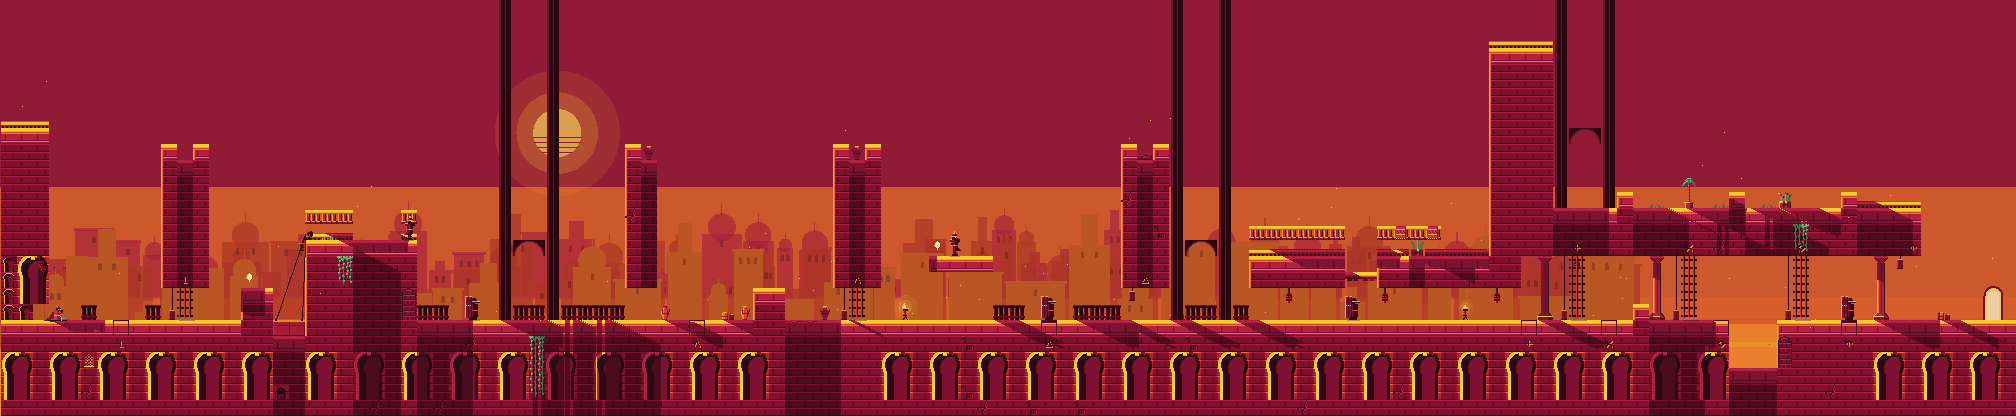
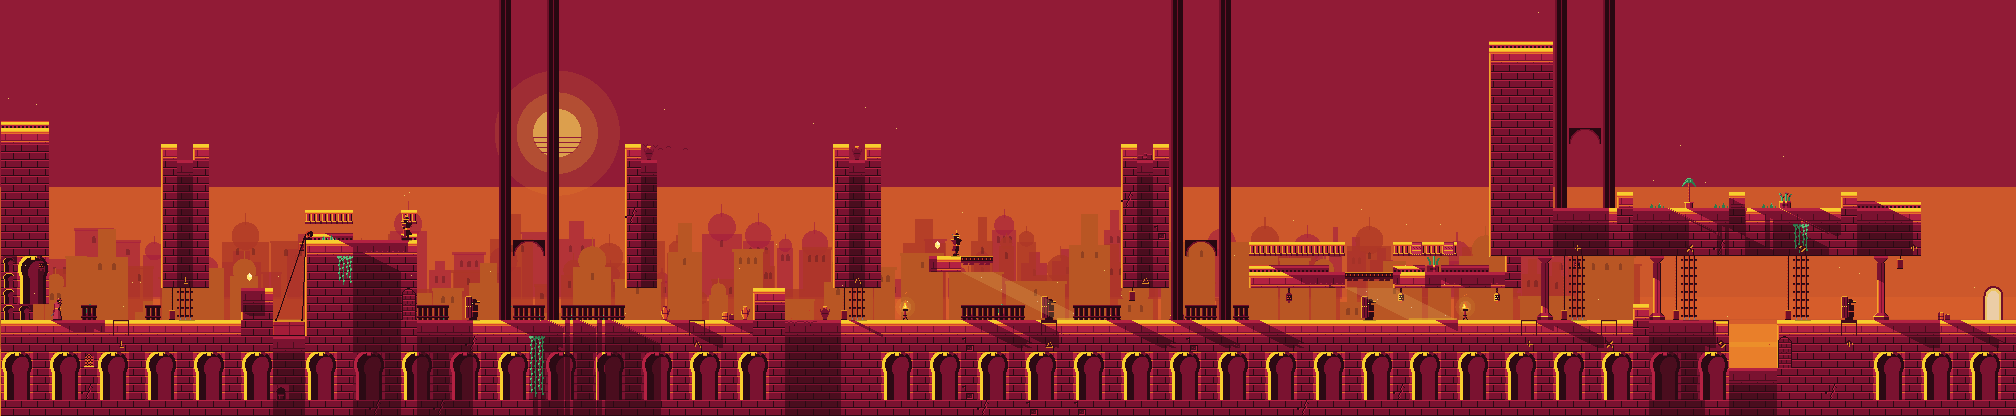
Make the corridor's hatch an iron grate the sun falls through, plunged with down + SWORD
Played on a phone, Chapter II's corridor was a dead end that looked like a
bug. The hatch was a notch in a two-course roof with a one-way floor at its
foot, so it read as a gap in the stone the prince sank into; the way
through it was a drop and then a plunge inside a two-tile fall, which
nobody found; and from inside the tunnel the shield had no answer and
nothing pointed at the one there was.

- A hatch is now its own thing (`h`, scripts/mechanisms/hatch.gd): an iron
  grate set flush in a floor, a one-way floor in the grid so it collides
  and proves exactly as `=` does, drawn as ink bars under a sunlit frame.
  Sunlight falls through it down the sun's own lane -- two across for one
  down, the slope every shadow runs on -- to the first stone below.
- Down + SWORD on any one-way floor is the plunge through it
  (Player._plunge_through()): one press, everywhere. Down + JUMP is still
  the drop; on stone, or half on it, down + SWORD is still the swing.
- The corridor's roof is one course with a grate three wide in it, the
  Bastion under its middle, where the shaft crosses his helm: from inside
  the light points up at the way, from the roof down at him. At two wide
  the rebound off his helm caught the stone rim in a ledge grab and hung
  the prince in the hatch between the two plunges; at three nothing stone
  is in reach. The climb onto the roof is three courses.
- The balcony's east half is the same grate, over the street everyone
[…]

diff --git a/docs/campaign.md b/docs/campaign.md
@@ -299,7 +299,7 @@ hanging beside every gate is its clock.
 | --- | --- | --- |
 | introduce | the courtyard (x 29) | posted under the rampart's lip, where jumping off puts you above him; a shove here only puts you against a wall |
 | develop | the weighed gate (x 65) | leap him, or plunge him and race |
-| twist | the corridor (x 84) | two tiles high: no leap, no height to plunge from — so go up onto the roof and drop through the hatch onto him |
+| twist | the corridor (x 85) | two tiles high: no leap, no height to plunge from — the sun falls through an iron grate in the roof onto his helm, so go up onto the roof and plunge through the grate (down + SWORD) onto him |
 | master | the arcade's last bay (x 115) | a Bastion in the middle of a race |
 
 **Beat sheet** (12 beats; the draft's header has them in full):
@@ -312,7 +312,7 @@ hanging beside every gate is its clock.
 6. Torch 1.
 7. The balcony — optional: a grab onto one course of stone over the street, a sentinel on four tiles of it, R2.
 8. The weighed gate. *(counterweights: twist; Bastion: develop)*
-9. The corridor and its hatch. *(Bastion: twist)*
+9. The corridor and its grate. *(Bastion: twist)*
 10. Torch 2.
 11. **The Long Arcade.** *(master; set piece)*
 12. The plaza and the door.
@@ -359,6 +359,40 @@ it showed a flaw:
 - **The corridor's roof runs on to the arcade's wall.** As drafted it stopped
   two tiles short, and a prince could walk the roof and drop down past the
   Bastion; now the hatch is the way down.
+- **The corridor's hatch is an iron grate the sun falls through** -- after
+  the owner played it on a phone and called it "a weird situation". As
+  drafted it was a notch in a two-course roof with a one-way floor at its
+  foot: it read as a glitch, a gap in the stone the prince sank into; the
+  way through it was a drop and then a plunge inside a two-tile fall,
+  which nobody found; and from inside the tunnel the shield had no answer
+  and nothing pointed at the one there was. Now:
+  - the roof is one course, with the grate (`h`, `scripts/mechanisms/
+    hatch.gd`) set flush in it, three wide, walked on like the stone either
+    side;
+  - **down + SWORD on any one-way floor plunges through it**
+    (`Player._plunge_through()`), one press, everywhere; down + JUMP is still
+    the plain drop, and on stone down + SWORD is still the swing;
+  - sunlight falls through the grate down the sun's own lane, two across for
+    one down -- every shadow in the game runs on it, so the shaft is drawn
+    at it, not straight down -- and the Bastion stands under the grate's
+    middle, where the shaft crosses his helm: from inside the tunnel the
+    light points up at the way, from the roof down at him;
+  - three wide with him under the middle, no stone rim is in reach of a
+    prince bouncing off his helm: at two wide the rebound's fall caught the
+    rim in a ledge grab and hung him in the hatch, between the two plunges;
+  - the climb onto the roof is three courses, a grab; and the grate is shown
+    first, safely, in the balcony's east half, which everyone walks under
+    and sees the sun come through before the corridor needs it;
+  - his turn already comes when a prince ends up behind him, so a roll past
+    his shield to his open back is an answer from inside the moment the
+    adventure has one.
+
+  The rest of the chapter was checked for the same failure -- a solution
+  the chapter never taught or showed -- and holds: the plate and gate are
+  taught by gate 1, the lift by its chains and slab, the plunge on the
+  courtyard Bastion by the drop off the rampart's lip above him (and the
+  Sun Terrace before it), the weighed gate's leap and the arcade's kerb and
+  pit are the jump, and the secrets are optional by construction.
 - **The second bay's hold is 1.7 s, not 1.6.** The kerb's hop is an arc the
   proof charges frame by frame: 1.21 s of run, 76% of 1.6 — past the 25%
   slack every race must keep. At 1.7 it is 71%, and the gate still falls

diff --git a/docs/character.md b/docs/character.md
@@ -117,8 +117,8 @@ and `tests/unit/test_specials.gd` pins each risk and reward against
 
 | | **Plunge** | **Parry** |
 | --- | --- | --- |
-| Touch | stick **down** + **SWORD**, in a jump or a fall | stick **up** + **SWORD**, on the ground |
-| Keyboard / pad | down + sword in the air | up + sword |
+| Touch | stick **down** + **SWORD**, in a jump or a fall -- or standing on a one-way floor, which it plunges through (`Player._plunge_through()`) | stick **up** + **SWORD**, on the ground |
+| Keyboard / pad | down + sword in the air, or on a one-way floor | up + sword |
 | What it does | gives up the run (`velocity.x` 0), drops at `MAX_FALL_SPEED` with the point `PLUNGE_REACH` (8 px) under the feet; no steering, no ledge | plants the feet and raises the blade for `PARRY_TIME` (24 frames); it turns a cut only in the first `PARRY_ACTIVE` (12) and only from the front |
 | Reward | a heart from where the guard cannot answer: his cut stops at `CUT_HIGH` (18 px), below the top of his own helm, so a body coming down on him is out of it; then it springs back off him (`STOMP_BOUNCE`, as a stomp does) into a jump that can plunge again | no wound to the guard, but his sabre is thrown wide and he reels where he stands for `PARRIED_TIME` (54 frames) — longer than the 33 of a whiffed cut, with the prince already inside reach — and the riposte skips the parry's recovery |
 | Risk | a plunge that meets stone bites it and holds the prince for `PLUNGE_RECOVER` (25 frames), jump or no jump; landed in front of a guard that raises on him, 25 frames plus the sword's lead is longer than the raise, so he eats the cut. Over a pit there is no grab to save it | thrown on sight, it is down again 15 frames before the cut lands and the recovery holds him there: the swing is the answer to a raise caught early, the parry to one caught late (after about frame 23, where a swing no longer lands first) |

diff --git a/docs/world.md b/docs/world.md
@@ -529,6 +529,18 @@ body, which the prince and the foes ride as they stand on terrain. To the
 proof an unwired lift is a ladder between its stops with the lower slab as
 floor; a wired one is floor at whichever stop its wire puts it.
 
+### Hatches
+
+`h` is an iron grate set in a floor (`scripts/mechanisms/hatch.gd`): a
+one-way floor in the grid (`MECHANISM_TERRAIN`), so it collides, grabs and is
+proved exactly as `=` is, drawn as ink bars under a sunlit frame instead of
+stone. It is walked on, dropped through with down + JUMP, and plunged
+through with down + SWORD -- which on any one-way floor is the plunge through
+it (`Player._plunge_through()`). The sun falls through it down the sun's own
+lane, two across for one down, to the first stone below: a hard-edged band,
+a lit patch, a few motes, drawn over whatever stands in it, so a level puts
+what the hatch is for where the light lands.
+
 ### Plates and gates
 
 `o` is a pressure plate: one of the floor's own stones (`MECHANISM_TERRAIN`
